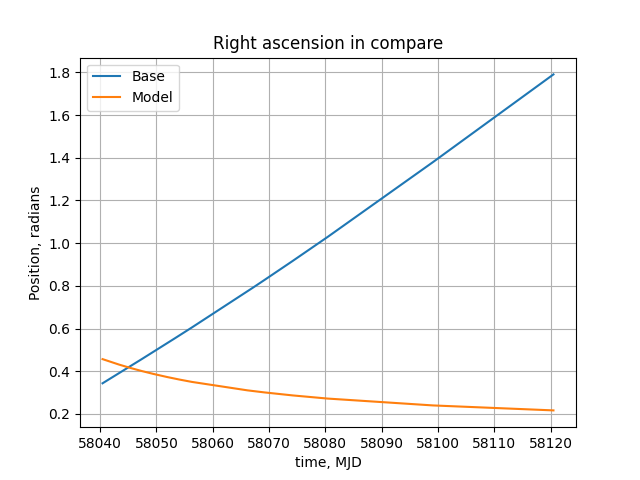
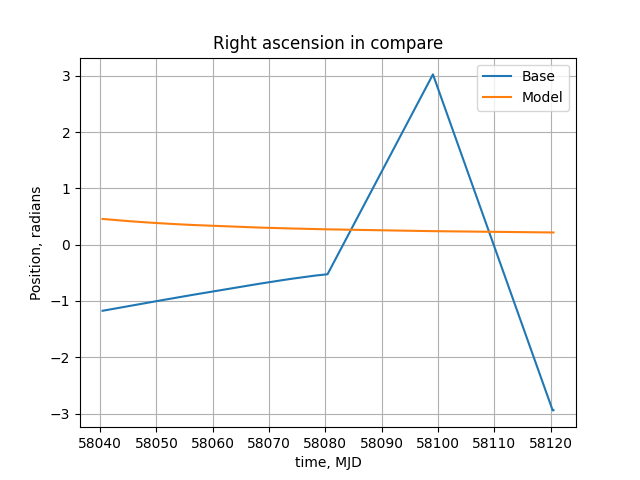
Light corrector in progress

diff --git a/source/data_processing/LightCorrector.cpp b/source/data_processing/LightCorrector.cpp
@@ -1,0 +1,71 @@
+#include "LightCorrector.h"
+
+
+void LightCorrector::light_time_correction(std::vector<Observation>* observations, std::map<std::string, Observatory>* observatory, std::vector<IntegrationVector>* sun_info)
+{
+	/*
+		| object (t - delta) - observer(t) | = c * delta
+
+		t - delta = t_obs
+		delta = t - t_obs
+		delta = | object (t_obs) - observer(t)| / c
+
+		object(t) = delta * V_object, where V_object = {vx, vy, vz}
+	*/
+	for (int i = 0; i < observations->size(); i++)
+	{
+		BarycentricCoord observatory_position;
+        Observatory current_observatory = observatory->at(observations->at(i).get_code());
+
+		double delta = (observations->at(i).get_barycentric() - current_observatory.get_barycentric()).length() / LIGHT_SPEED;
+		
+		BarycentricCoord corrected_position = observations->at(i).get_barycentric();
+
+		this->gravitational_deflection(&corrected_position, &current_observatory, sun_info->at(0));
+		this->aberration(&corrected_position, &current_observatory, sun_info->at(0));
+
+		observations->at(i).set_barycentric(corrected_position);
+	}
+}
+
+
+void LightCorrector::gravitational_deflection(BarycentricCoord* body_position, Observatory* observatory, IntegrationVector sun)
+{
+	double sun_mass = SUN_MASS;
+	double observer_to_body[3] = { body_position->get_alpha(), body_position->get_beta(), body_position->get_gamma() };
+	double corrected_position[3];
+
+	BarycentricCoord position = *body_position - sun.get_barycentric_position(); // sun to body
+	double sun_to_body[3] = { position.get_alpha() / position.length(), position.get_beta() / position.length(), position.get_gamma() / position.length() };
+
+	position = observatory->get_barycentric() - sun.get_barycentric_position();
+	double sun_to_observer[3] = { position.get_alpha() / position.length(), position.get_beta() / position.length(), position.get_gamma() / position.length() };
+
+	double sun_to_observer_length = position.length();
+
+	iauLd(sun_mass, observer_to_body, sun_to_body, sun_to_observer, sun_to_observer_length, 0, corrected_position);
+
+	double vector_length = body_position->length();
+	body_position->set_alpha(corrected_position[0] * vector_length);
+	body_position->set_beta(corrected_position[1] * vector_length);
+	body_position->set_gamma(corrected_position[2] * vector_length);
+}
+
+
+void LightCorrector::aberration(BarycentricCoord* body_position, Observatory* observatory, IntegrationVector sun)
+{
+	double corrected_position[3];
+	double observer_to_body[3] = { body_position->get_alpha(), body_position->get_beta(), body_position->get_gamma() };
+	double observer_velocity[3] = { 0, 0, 0 };
+
+	BarycentricCoord position = observatory->get_barycentric() - sun.get_barycentric_position();
+	double sun_to_observer_length = position.length();
+
+	iauAb(observer_to_body, observer_velocity, sun_to_observer_length, 1, corrected_position);
+
+	double vector_length = body_position->length();
+	body_position->set_alpha(corrected_position[0] * vector_length);
+	body_position->set_beta(corrected_position[1] * vector_length);
+	body_position->set_gamma(corrected_position[2] * vector_length);
+}
+

diff --git a/source/Solution.cpp b/source/Solution.cpp
@@ -65,7 +65,9 @@ void Solution::integrate()
     model_orbits = integration.dormand_prince(initial_condition, data_reader.get_observations()->at(0).get_date(), data_reader.get_observations()->at(221).get_date(), step, &map_planets);
     model_measures = converter.interpolation_model_on_grid(data_reader.get_observations_vector(), model_orbits);
 
+    // light_corrector.light_time_correction(data_reader.get_observations(), data_reader.get_obsevatory_map(), &map_planets["sun"]);
     converter.geo_to_bary_for_base_measure(data_reader.get_observations(), data_reader.get_obsevatory_map(), data_reader.get_earth_rotation_vector(), data_reader.get_interpolation_hubble(), map_planets["earth"]);
+
     for (int i = 0; i < (data_reader.get_observations_vector()).size(); i++) 
     {
         IntegrationVector base_vector;

diff --git a/source/data_processing/LightCorrector.h b/source/data_processing/LightCorrector.h
@@ -1,0 +1,22 @@
+#pragma once
+#include "../measure/coords/Observatory.h"
+#include "../measure/data_structures/IntegrationVector.h"
+#include "../measure/coords/Observation.h"
+#include "../measure/data_structures/HubbleData.h"
+#include "../../sofa/src/sofa.h"
+#include <map>
+#include "../Helpers.h"
+
+
+class LightCorrector
+{
+private:
+	Helpers help;
+public:
+	void light_time_correction(std::vector<Observation>* observation, std::map<std::string, Observatory>* observatory, std::vector<IntegrationVector>* sun_info);
+
+	void gravitational_deflection(BarycentricCoord* position_vector, Observatory* observatory, IntegrationVector sun);
+
+	void aberration(BarycentricCoord* corrected_light_position, Observatory* observatory, IntegrationVector sun);
+};
+

diff --git a/source/Solution.h b/source/Solution.h
@@ -2,6 +2,7 @@
 #include "./data_processing/DataReader.h"
 #include "./data_processing/Converter.h"
 #include "./data_processing/Integration.h"
+#include "./data_processing/LightCorrector.h"
 #include <iomanip>
 
 
@@ -17,6 +18,7 @@ private:
 
     IntegrationVector initial_condition;
     Integration integration;
+    LightCorrector light_corrector;
     
     std::string model_file = "./output_data/model_measure.txt";
     std::string base_file = "./output_data/base_measure.txt";

diff --git a/source/measure/coords/Observation.cpp b/source/measure/coords/Observation.cpp
@@ -51,6 +51,11 @@ void Observation::set_barycentric(double alpha, double beta, double gamma)
     this->barycentric_position.set_gamma(gamma);
 }
 
+void Observation::set_barycentric(BarycentricCoord coordinates)
+{
+    this->set_barycentric(coordinates.get_alpha(), coordinates.get_beta(), coordinates.get_gamma());
+}
+
 
 void Observation::set_geocentric(double x, double y, double z)
 {

diff --git a/source/measure/coords/Observation.h b/source/measure/coords/Observation.h
@@ -31,6 +31,7 @@ public:
     void set_spherical(double, double);
     void set_geocentric(double, double, double);
     void set_barycentric(double, double, double);
+    void set_barycentric(BarycentricCoord);
 
     //getters
     Date* get_date();

diff --git a/source/measure/coords/BarycentricCoord.h b/source/measure/coords/BarycentricCoord.h
@@ -20,7 +20,7 @@ private:
     Helpers help;
 public:
     BarycentricCoord() = default;
-
+    BarycentricCoord(double a, double b, double g) : alpha(a), beta(b), gamma(g) {};
 
     //getters
     double get_alpha();

diff --git a/source/Helpers.h b/source/Helpers.h
@@ -9,6 +9,8 @@
 
 
 #define EARTH_RADIUS 6378.140
+#define LIGHT_SPEED 1079252848.8 / 3600 // km / h * 1 / 3600 = km / s
+#define SUN_MASS 1.9885E30
 
 
 class Helpers
